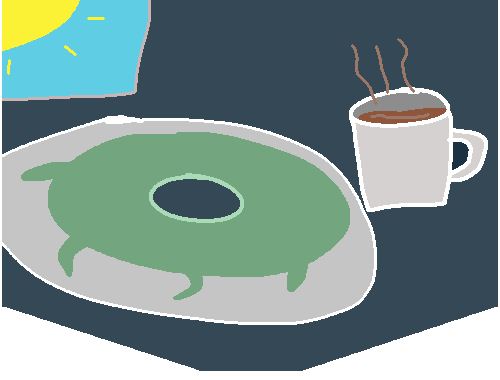
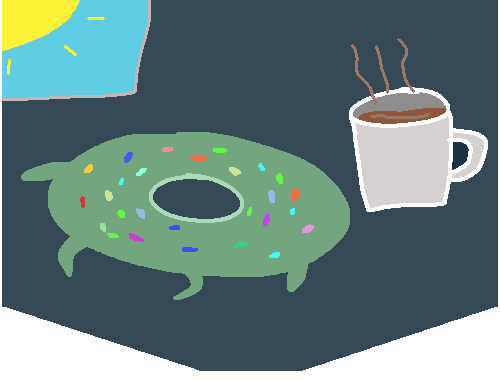
Fix for PM Booster Pack egg bug. Improved Donut art. Clarified glowing text

diff --git a/src/main/java/thePackmaster/relics/PMBoosterPack.java b/src/main/java/thePackmaster/relics/PMBoosterPack.java
@@ -51,10 +51,14 @@ public class PMBoosterPack extends AbstractPackmasterRelic {
         AbstractCardPack pack = SpireAnniversary5Mod.getRandomPackFromAll(new Random(Settings.seed + 41));
         ArrayList<String> cards = pack.getCards();
         for (String s : cards) {
-           if (CardLibrary.getCard(s).rarity == AbstractCard.CardRarity.COMMON ||
-                   CardLibrary.getCard(s).rarity == AbstractCard.CardRarity.UNCOMMON ||
-                   CardLibrary.getCard(s).rarity == AbstractCard.CardRarity.RARE)
-               group.addToTop(CardLibrary.getCard(s).makeCopy());
+            if (CardLibrary.getCard(s).rarity == AbstractCard.CardRarity.COMMON ||
+                    CardLibrary.getCard(s).rarity == AbstractCard.CardRarity.UNCOMMON ||
+                    CardLibrary.getCard(s).rarity == AbstractCard.CardRarity.RARE) {
+                AbstractCard toAdd = CardLibrary.getCard(s).makeCopy();
+                AbstractDungeon.player.relics.stream().forEach(q -> q.onPreviewObtainCard(toAdd));
+                group.addToTop(toAdd);
+            }
+
         }
         group.sortByRarity(false);
 
@@ -69,7 +73,7 @@ public class PMBoosterPack extends AbstractPackmasterRelic {
             this.cardSelected = true;
             CenterGridCardSelectScreen.centerGridSelect = false;
 
-            AbstractDungeon.effectList.add(new ShowCardAndObtainEffect(AbstractDungeon.gridSelectScreen.selectedCards.get(0).makeCopy(), (float)(Settings.WIDTH / 2), (float)(Settings.HEIGHT / 2)));
+            AbstractDungeon.effectList.add(new ShowCardAndObtainEffect(AbstractDungeon.gridSelectScreen.selectedCards.get(0).makeCopy(), (float) (Settings.WIDTH / 2), (float) (Settings.HEIGHT / 2)));
 
             AbstractDungeon.gridSelectScreen.selectedCards.clear();
             AbstractDungeon.getCurrRoom().phase = lastPhase;
